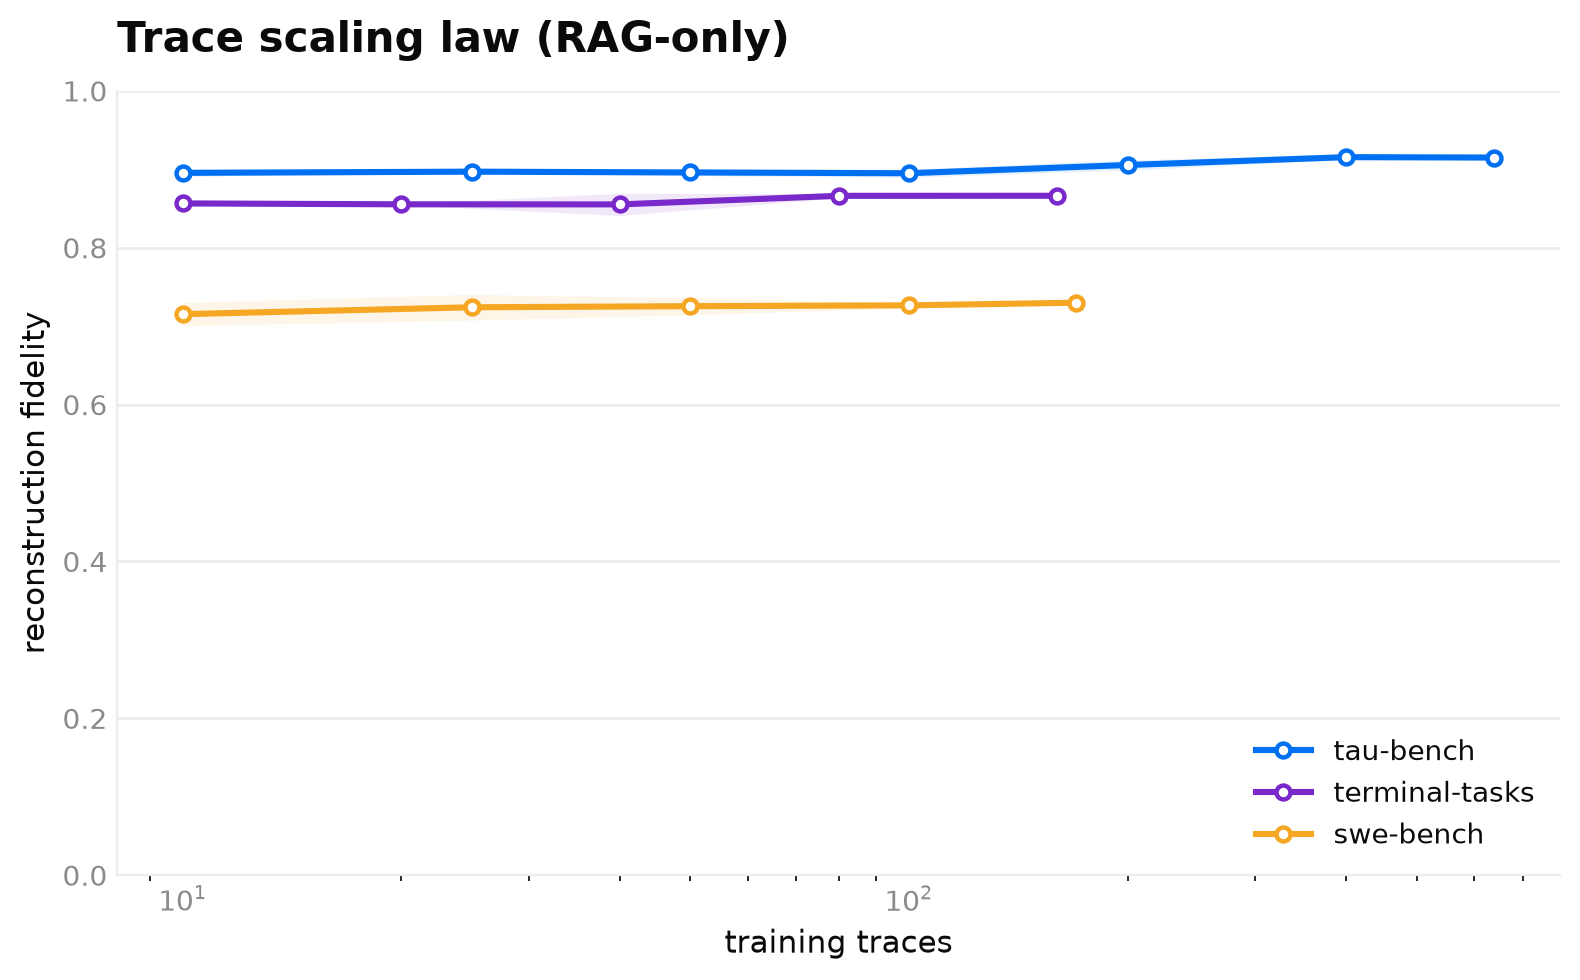
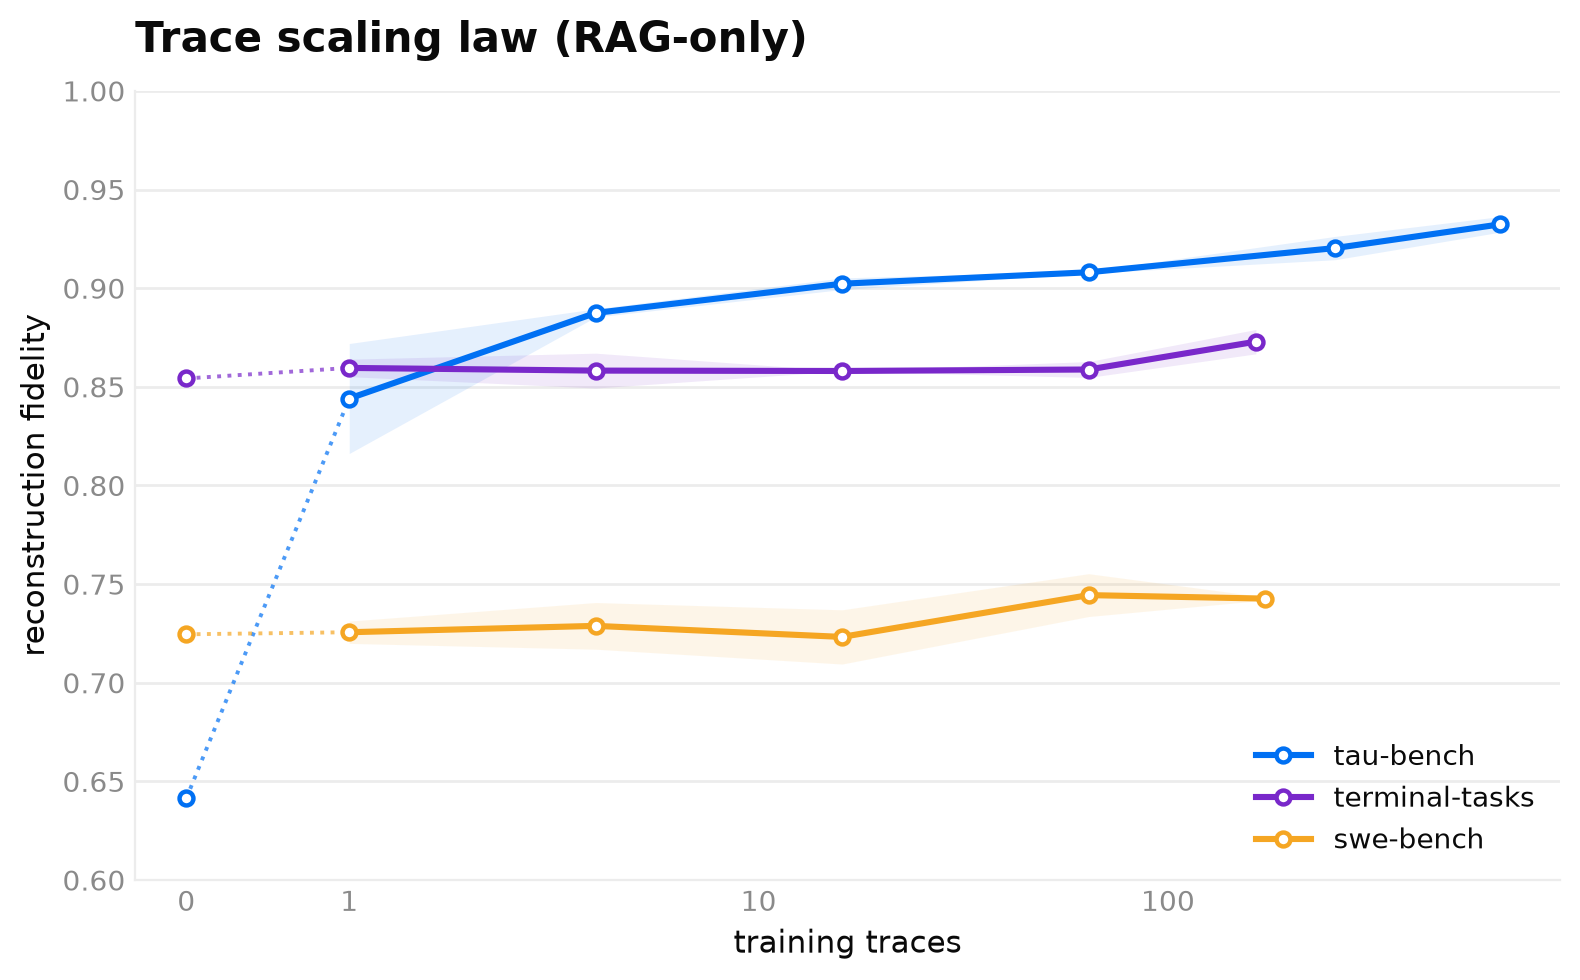
docs/research: trace scaling law update + RAG optimization report
- trace_scaling_law.md: rewrite of the existing main doc — corrects the stale
  'all curves flat' headline to 'trace count matters iff the observation is a
  retrievable function of (state, action)' (tau +0.29, still climbing at n=648;
  terminal/swe ~flat). Folds in the contamination refutation (zero-shot recall is
  near-zero — swe, the most public, lowest — so it is reconstruction, not memory).
- rag_optimization.md (new report): the observation cap is the unambiguous win (a
  ~9x worst-case prompt-size / token-limit fix); the top_k fidelity deltas
  (+0.015-0.017) sit at the noise floor — stated plainly — and semantic embeddings /
  key engineering / HyDE do not beat lexical retrieval (near its oracle ceiling).
- Both stamped with judge provenance (numbers are pre-#83 rubric-v1; main's
  rubric-v2 scores lower on identical predictions). docs/README indexes both.

Figures re-rendered end-to-end from the archived AblationReports.

diff --git a/docs/research/trace_scaling_law.md b/docs/research/trace_scaling_law.md
@@ -3,35 +3,60 @@
 **Does feeding the world model more recorded traces improve how faithfully it reconstructs the
 environment?** We sweep the number of *training* traces against a fixed held-out test set and measure
 open-loop reconstruction fidelity (RAG-only — the shipped base prompt with a retrieval buffer over
-the training traces, no GEPA). One curve per benchmark.
+the training traces, no GEPA). One curve per benchmark, anchored at `n=0` (the no-RAG baseline: the
+same base prompt with retrieval turned off).
 
 The corpus is split deterministically (hash of `trace_id`) into a fixed `test` band (the y-axis,
 never changes as the corpus grows), a fixed `valid` band, and a train *pool*; each sweep point draws
-`n` traces from the pool (nested per seed), so the only thing varying along x is how much training
-data the model sees. `wmh/research/trace_scaling.py` implements the ablation.
+`n` traces from the pool, shuffled per seed and nested as `n` grows, so the only thing varying along
+x is how much training data the model sees. `wmh/research/trace_scaling.py` implements the ablation.
 
 ![Trace scaling law](trace_scaling_law.png)
 
-## The finding: fidelity saturates almost immediately
+## The finding: for two of three benchmarks, trace data barely contributes
 
-All three curves are **flat**. Going from 10 → hundreds of training traces barely moves fidelity:
+The `n=0` (no-RAG) anchor is the key: since RAG is the only channel through which trace data reaches
+the world model here, the gap from `n=0` to the RAG curve *is* the entire contribution of the
+training traces. That gap is large for tau-bench and near-zero for the other two:
 
-| Benchmark | fidelity @ smallest | fidelity @ largest | corpus (traces / steps) |
-|---|---|---|---|
-| tau-bench (tool calls) | ~0.90 (n=10) | ~0.92 (n=640) | 1033 / 5289 |
-| terminal-tasks (bash) | ~0.86 (n=10) | ~0.87 (n=160) | 280 / 685 |
-| swe-bench (arbitrary code output) | ~0.72 (n=10) | ~0.73 (n=170) | 255 / 1868 |
+| Benchmark | n=0 (no-RAG) | n=1 | n=4 | largest | RAG lift (n=0 → max) | corpus (traces / steps) |
+|---|---|---|---|---|---|---|
+| tau-bench (tool calls) | 0.641 | 0.844 | 0.887 | 0.932 (n=648) | **+0.29** | 1033 / 5289 |
+| terminal-tasks (bash) | 0.854 | 0.860 | 0.858 | 0.873 (n=164) | +0.02 | 280 / 685 |
+| swe-bench (arbitrary code output) | 0.725 | 0.726 | 0.729 | 0.743 (n=173) | +0.02 | 255 / 1868 |
 
-The across-seed std at every point is small (≤0.016), so the flatness is real, not noise. A handful
-of retrieved neighbours is enough for the frontier model to reconstruct the next observation; more
-of the same trace distribution adds little.
+For **terminal-tasks and swe-bench**, zero traces already scores 0.854 / 0.725, and the full pool
+moves it by ~0.02 — trace data adds almost nothing, and what little there is arrives with the first
+neighbour. Their fidelity is essentially the base model's zero-shot competence, not anything learned
+from the corpus. For **tau-bench**, retrieval is the whole story: +0.20 by the first trace and +0.29
+by the full pool, still climbing at n=648 (it has not plateaued). The across-seed std is ≤0.014 at
+every point except tau-bench's `n=1` (0.028), so both the tau climb and the flatness elsewhere are
+signal, not noise (and each seed draws a different shuffled subset, so it is not a lucky sample).
 
-The **level** each curve saturates at tracks task difficulty, exactly as expected: tau-bench's
-tool-call results are the most reconstructable, terminal shell output next, and swe-bench's arbitrary
-code-execution output (tracebacks, pytest logs) is the hardest — the low-fidelity end by design.
+**Why the split?** Retrieval keys on the `(state, action)` of each step. In tau-bench the observation
+is a deterministic lookup of state the arguments name (a user record, a reservation), the same
+arguments recur across traces, and a bigger pool increasingly contains a near-duplicate whose
+observation is essentially the answer — so more traces keep helping. In terminal-tasks and swe-bench
+the observation is a function of environment state the trace never captures (live web responses, the
+repo's file contents) and is near-unique per step; retrieval finds a lexically similar *command* but
+its *output* is unrelated, so no number of traces makes it predictive. (Empirically: the retrieved
+demo's observation resembles the actual one with a large lift over random for tau at high `n`, but
+~zero lift for terminal/swe. See `.agents/docs/research/` for the diagnostic.)
 
-**Takeaway:** the leverage is in *prompt/optimization and observation difficulty*, not raw trace
-count. Past a small buffer, collecting more traces of the same kind is not where fidelity comes from.
+**Takeaway:** more traces of the same kind only buy fidelity when the observation is a retrievable
+function of the recorded `(state, action)` — true for structured tool lookups (tau), false for
+outputs that depend on uncaptured environment state (shell, code execution). For the latter the
+leverage is elsewhere: richer state capture in the trace format, and prompt/optimization.
+
+**This is reconstruction, not memorization.** A natural worry is that the model only *looks* like a
+world model because it pretrained on these public benchmarks. A contamination probe refutes it:
+scored **zero-shot** — no retrieved examples, no trajectory history, just the action — the model
+reproduces almost nothing (swe-bench, the most public via GitHub repos, is *lowest*: 0.11 factuality,
+3% exact match; tau-bench, synthetic and un-memorizable, is the 0%/0.12 control). Verbatim
+memorization would show near-1.0 factuality. Adding the recorded trajectory history roughly *doubles*
+factuality (swe 0.11→0.40, terminal 0.27→0.63) — the model reconstructs from in-context signal, which
+is exactly why the n=0→RAG gap above measures a real contribution rather than recall. Probe script
+and raw numbers: `.agents/docs/research/rag_opt_results/` (`contamination_probe.py`, `contam.log`).
 
 ## Reproduce
 
@@ -42,13 +67,28 @@ canonical `RubricJudge` on a fixed test split, parallelized (`--concurrency`) an
 (`--test-cap`). Raw `AblationReport` JSONs were archived to the workspace
 (`.agents/docs/research/trace_scaling_results/` as of publication).
 
-```bash
-# one benchmark's curve (per-benchmark; adjust --counts to the corpus)
-AWS_REGION=us-east-1 uv run python .agents/scripts/run_trace_scaling.py terminal-tasks \
-  --counts 10,20,40,80,160 --modes base --seeds 0,1 \
-  --sample-turns sampled --test-cap 40 --concurrency 8 --out term.json
+> **Judge provenance.** These numbers predate #83 and use **rubric-v1** (unweighted mean of five
+> dimensions). Main's **rubric-v2** (factuality-weighted headline + validity flag + middle
+> truncation) scores strictly lower on identical predictions — ≈0.58 where v1 scored ≈0.70 — so
+> re-running the commands below on `main` will produce lower absolute fidelities. The *shape* of each
+> curve and the n=0→RAG gaps (what this doc claims) are unchanged in kind.
 
-# render all three into the figure (matplotlib is ephemeral, not a project dep)
+```bash
+# one benchmark's curve — the same --counts for all three; the ablation auto-caps at the train pool
+# (tau-bench -> 648, terminal-tasks -> 164, swe-bench -> 173), so the top point is the whole pool.
+AWS_PROFILE=default AWS_REGION=us-east-1 uv run python .agents/scripts/run_trace_scaling.py \
+  terminal-tasks --counts 1,4,16,64,256,648 --modes base --seeds 0,1 \
+  --sample-turns sampled --test-cap 40 --concurrency 8 \
+  --opt-model us.anthropic.claude-opus-4-8 --out term.json
+
+# the n=0 anchor: the same scoring with retrieval OFF (--no-rag); merged into the report as base@0.
+AWS_PROFILE=default AWS_REGION=us-east-1 uv run python .agents/scripts/run_trace_scaling.py \
+  terminal-tasks --counts 1 --modes base --seeds 0,1 --no-rag \
+  --sample-turns sampled --test-cap 40 --concurrency 8 \
+  --opt-model us.anthropic.claude-opus-4-8 --out term_norag.json
+
+# render all three into the figure (matplotlib is ephemeral, not a project dep); base@0 is drawn
+# in the "0" slot left of 10^0 with a dotted connector to the first RAG point.
 uv run --with matplotlib python .agents/scripts/plot_trace_scaling.py \
   --report tau-bench=tau.json --report terminal-tasks=term.json --report swe-bench=swe.json \
   --out docs/research/trace_scaling_law --title "Trace scaling law (RAG-only)"

diff --git a/docs/research/rag_optimization.md b/docs/research/rag_optimization.md
@@ -1,0 +1,107 @@
+# RAG optimization — what actually makes retrieval more valuable
+
+The [trace scaling law](trace_scaling_law.md) found that more training traces barely help
+terminal-tasks and swe-bench, because their observations depend on environment state the trace never
+captures. **This study asks the follow-up: holding the corpus fixed, can we make *retrieval itself*
+more valuable by tuning what we retrieve, how many, how we embed, and how we render retrieved examples?** We
+ablate every retrieval decision (and its failure modes) and settle a robust "optimized RAG" config.
+
+Runs are RAG-only (base prompt + a retrieval buffer, no GEPA), scored with the canonical `RubricJudge`
+on a fixed test split (`wmh/research/trace_scaling.py`). Serve + judge are **Claude Sonnet 4.6**
+(Opus 4.8/4.7 were capacity-throttled during this study; both arms of every comparison use the same
+model, so the deltas are internally valid — absolute levels sit below the Opus-4.8 numbers in the
+trace scaling law). Two seeds, `test-cap` 15–40; the eval's run-to-run noise is ±0.015–0.02, which
+matters for reading small effects below.
+
+> **Judge provenance.** All numbers here predate #83 and use **rubric-v1** (the unweighted mean of
+> five dimensions). Main's **rubric-v2** is a factuality-weighted headline (factuality weight 0.5,
+> validity flag, ≤0.1 factuality clamp) that scores strictly lower on identical predictions (≈0.58
+> where v1 scored ≈0.70). Re-running the quoted commands on `main` will therefore produce lower
+> absolute fidelities; the *comparisons* (which config beats which) are what this study reads.
+
+![RAG optimization: optimized vs. unoptimized trace scaling](rag_optimization.png)
+
+## The robust wins: retrieval depth + an observation cap
+
+The shipped default retrieves `top_k=5` context-free `(state,action)→observation` retrieved examples with an
+offline lexical embedder. Two changes help across the board:
+
+- **`top_k` 5 → 20.** The retrieved example whose observation actually predicts the target usually exists in the
+  pool but sits at ranks 5–50, so `k=5` never shows it to the model. Raising `k` surfaces it; `k=50`
+  regresses (too many retrieved examples dilute the prompt), so ~20 is the sweet spot.
+- **Cap each retrieved example's observation (`max_retrieved_observation_chars≈2000`).** With `k=20` over verbose shell
+  output, a single prompt's retrieved-examples block reached **~97k tokens** (terminal-tasks) — a real prompt-
+  crowding / token-limit failure. Keeping only each observation's first ~2000 chars collapses that
+  ~9× (to ~10k tokens) with negligible fidelity cost: retrieval keys on `(state, action)`, so a
+  retrieved example's *format and salient head* carry the signal and the long tail is noise.
+
+Optimized (`top_k=20` + cap) vs. unoptimized (`top_k=5`), fidelity at the full train pool:
+
+| benchmark | no-RAG (n=0) | unoptimized | optimized | Δ |
+|---|---|---|---|---|
+| tau-bench | 0.533 | 0.863 | **0.878** | **+0.015** |
+| terminal-tasks | 0.779 | 0.801 | **0.818** | **+0.017** |
+| swe-bench | 0.632 | 0.639 | 0.640 | +0.001 |
+
+**Read these deltas honestly: +0.015 (tau) and +0.017 (terminal) sit *at* this eval's stated noise
+floor (±0.015–0.02 at 2 seeds / test-cap 15), and swe's +0.001 is zero.** So the fidelity wins from
+`top_k` are *within error bars* — suggestive, not established. The two things that are **unambiguous**
+are (a) the **crowding fix**: the observation cap is a ~9× worst-case prompt-size reduction (a real
+token-limit failure removed) at no measurable fidelity cost, and (b) the **negative results** below.
+Any fidelity gain from `top_k` concentrates at higher trace counts (more traces × more depth = more
+chances the predictive example is in view); swe-bench does not move — it is at its retrieval ceiling.
+
+## What does *not* help: semantic embeddings, cleverer keys, HyDE
+
+Intuitively a semantic embedder should beat a lexical one. **Empirically, it does not.** We compared
+the lexical char-trigram `HashingEmbedder` against a semantic model (`text-embedding-ada-002`), across
+several **key formulations** (what text phi embeds) and **retrieval strategies**:
+
+| variation | result |
+|---|---|
+| semantic (ada-002) vs. lexical hashing | semantic **never wins** on fidelity (e.g. terminal pool 0.790 vs. 0.818) |
+| key: command-only / raw (strip `STATE:`/`ACTION` boilerplate) | small *offline* gain; **washes out live** and hurts tau (0.865 vs. 0.878) and swe (0.615 vs. 0.640) |
+| key: mask URLs/paths/numbers (template) | hurts — over-masks the discriminative tokens |
+| key: task + command | helps terminal offline, hurts swe; net wash |
+| HyDE (retrieve on a hypothetical output, not the command) | identical to command retrieval — no gain |
+
+Two reasons. First, these observations are predicted by **literal token overlap** — URLs, file paths,
+flags, test names — which char-trigram hashing captures exactly and semantic embeddings *blur*.
+Second, and more fundamentally: on a fair (semantic) obs-match metric, action-based retrieval already
+lands at ~0.87–0.90 (terminal) / ~0.76–0.80 (swe) against oracles of 0.92 / 0.79 — **retrieval is
+already near its ceiling.** The residual fidelity gap is not a retrieval problem; it is that
+terminal/swe outputs are *unpredictable* (no retrieved example can supply the exact live version string or file
+contents), so a better-ranked retrieved example changes nothing the model can act on.
+
+## Takeaway
+
+**The robust, generalized RAG levers are `top_k` and the observation cap; everything fancier
+(semantic embeddings, key engineering, HyDE) is below the noise floor here.** Because retrieval is
+already near-oracle, the leverage for hard, stateful environments (terminal, swe) is *not* in
+retrieval — it is upstream (capturing real environment `state` in the trace format) and in the metric
+(weighting the judge toward factual correctness). Retrieval optimization is worth ~+0.015–0.02 and a
+crowding-failure fix; it is not what unlocks these benchmarks.
+
+## Reproduce
+
+`run_trace_scaling.py` (a workspace script, quoted here as the record; `.agents/` is disposable) is
+the sidecar for `wmh/research/trace_scaling.py`. Optimized arm, one benchmark:
+
+```bash
+AWS_PROFILE=default AWS_REGION=us-west-2 uv run python .agents/scripts/run_trace_scaling.py \
+  terminal-tasks --counts 1,16,164 --modes base --seeds 0,1 \
+  --top-k 20 --max-retrieved-observation-chars 2000 --retrieval-key state_action \
+  --sample-turns sampled --test-cap 15 --concurrency 8 \
+  --opt-model us.anthropic.claude-sonnet-4-6 --judge-model us.anthropic.claude-sonnet-4-6 --out opt.json
+# unoptimized: --top-k 5 (drop the cap); n=0 anchor: --no-rag; semantic: --embedder azure
+#   (Azure ada-002 via AZURE_OPENAI_API_KEY + endpoint; command-only key: --retrieval-key action)
+
+uv run --with matplotlib python .agents/scripts/plot_rag_compare.py \
+  --panel tau-bench=unopt_tau.json,opt_tau.json \
+  --panel terminal-tasks=unopt_term.json,opt_term.json \
+  --panel swe-bench=unopt_swe.json,opt_swe.json --out docs/research/rag_optimization --ymin 0.5
+```
+
+Full methodology, the offline retrieval-quality diagnostics, and every raw `AblationReport` are
+recorded in the workspace (`.agents/docs/reference/rag-scaling-methodology.md` and
+`.agents/docs/research/`) as of publication.

diff --git a/docs/README.md b/docs/README.md
@@ -16,10 +16,12 @@ file here must justify its existence in the table below; a doc that can't gets d
 | File | Justification |
 |---|---|
 | `README.md` | The manifest that makes the justification rule enforceable. |
-| `research/trace_scaling_law.md` | The repo's first completed scaling-law result and a load-bearing product claim: fidelity saturates at ~10 traces, so the leverage is prompt/optimization, not trace count. Cited by launch material and the benchmark work. |
+| `research/trace_scaling_law.md` | The repo's first completed scaling-law result and a load-bearing product claim: measured against a no-RAG (n=0) anchor, trace data lifts fidelity +0.29 for tau-bench but only ~0.02 for terminal-tasks/swe-bench, because retrieval only pays off when the observation is a retrievable function of the recorded (state, action). Cited by launch material and the benchmark work. |
 | `research/trace_scaling_law.png` | The figure the writeup renders; also the brand-system visual reference cited by AGENTS.md rule 15. |
 | `research/concurrency_scaling_law.md` | The honest cost claim behind the world-model pitch: a world model saves wall-clock **iff real standup cost > reconstruction cost** — so it wins on expensive-build envs (swe ~3–4×, terminal ~5–12×) and *loses* on cheap in-process envs (tau ~0.3×). Documents the fair-comparison methodology and the selection-sensitivity finding (why results use `--select random`, not `simplest`). |
 | `research/concurrency_speedup.png` | The cross-benchmark speed-up figure the writeup renders — how many times faster the world model is than the real environment, per benchmark and concurrency level (the "what"). |
 | `research/concurrency_cost.png` | The cross-benchmark cost figure the writeup renders — world-model reconstruction vs. real-environment setup cost at W=1, the crossover that explains the speed-up (the "why"). |
+| `research/rag_optimization.md` | The follow-up product claim: holding the corpus fixed, `top_k`+an observation cap lift fidelity ~+0.015–0.02 (and fix a token-crowding failure), but semantic embeddings / key engineering / HyDE do not beat lexical retrieval — retrieval is near its oracle ceiling, so the leverage for stateful benchmarks is trace-format state capture and judge weighting, not retrieval. Guides where not to spend effort. |
+| `research/rag_optimization.png` | The optimized-vs-unoptimized trace-scaling figure the writeup renders. |
 | `reference/eval_suites.md` | The reproducibility contract every benchmark number in this repo rests on (`examples/<task>/evals/*.toml` + `wmh eval`); commands verified against `main` at promotion. |
 | `reference/failover.md` | The `.wmh/fallback.toml` failover contract: which calls ride the chain (world-model) and which never do (the judge), plus the cross-account ladder format; verified live against both AWS accounts. |
